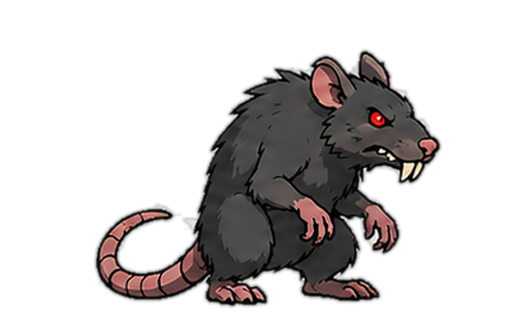
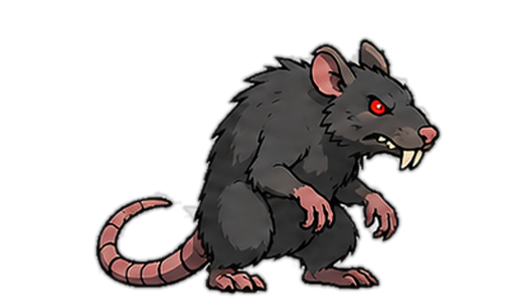
Rat idle: regenerated sheet passes -- breath 11.4% -> 4.8%, feet planted
New 3x4 sheet (1448x1086, 362x362 square cells) replacing the 2x6 one.
Measured against docs/STANCE_SHEET_SPEC.md Protocol A and B rather than
judged by eye, which is what every previous attempt this session got
wrong.

What actually improved, all measured on the delivered frames:

  breath rise f0->f11   11.4%  ->   4.8%   (directed ~4%; this was THE
                                           'gliding around' defect)
  redraw ratio            1.5  ->    0.9   (target <1.6)
  draw scale        0.92-1.07  ->  0.98-1.04 (all green)
  ground-line agreement    2px ->    1px across all 29 poses
  frames needing stray removal  9  ->  3

The two bands that still read as failing are both the tail, and the tail
is now MEANT to move -- this sheet was directed with a deliberate hip-
pivot sweep after the owner pointed out an idle is a standing loop, not a
statue. Separated the bottom band by side to prove it rather than
asserting it: tail side 26.1% churn, paw side 17.4%, and the planted-paw
centroid holds within 8.6px (2.3% of figure width) across all twelve
frames. So the feet are planted and consistently drawn; the 22% the QA
tool reports as 'feet' is the tail sweeping through the same band. Onion
skin agrees -- one readable rat with crisp feet, blur confined to head
and forepaws where the breath is.

That is exactly the redraw-ratio blind spot written into the prompt's
accept criteria last commit (a swaying tail and a flickering tail are
[…]

Changed region(s): [[0.1829, 0.1176, 0.8533, 0.9706]]

diff --git a/tools/slice_actor_sheet.py b/tools/slice_actor_sheet.py
@@ -308,90 +308,74 @@ ACTORS = {
                           "attack/f6", "attack/f7", "attack/f8", "attack/f9", "attack/f10", "attack/f11"],
             },
             {
-                # New 12-frame idle (2026-08-29), flat cel style, actual
-                # green (~hue-dominant, not a literal #00FF00 flood) rather
-                # than this creature's usual white-backed sheets -- "green"
-                # key mode (key_out_green) rather than "white_flood".
-                # Even 2x6 grid, cells cleanly gapped -- no bands needed.
+                # Regenerated 2026-08-30 under docs/STANCE_SHEET_SPEC.md --
+                # see Art/Enemies/rat/idle_regeneration_prompt.txt for the
+                # exact prompt and why each clause is in it. Replaces the
+                # 2026-08-29 sheet, which failed Protocol A #9 (figures wider
+                # than their own cells, so every tail was severed at a gutter)
+                # and Protocol B travel (11.4% against an 8% reject).
+                #
+                # 3x4 at 1448x1086 -> 362x362 SQUARE cells. The old sheet was
+                # 2x6 -> 286x458, and the rat's own content is 288 wide: it
+                # physically could not fit, which is why no amount of prompt
+                # wording kept it inside the cell. Square cells fix that by
+                # construction, and are the reason this sheet needs no
+                # drop_far_components_px entry -- with clean gutters there are
+                # no severed-tail strays to delete.
+                #
+                # Background came back near-white (247-255) with a faint baked
+                # checkerboard rather than real alpha, so "white_flood" like
+                # this creature's other sheets -- NOT the previous sheet's
+                # "green". The checkerboard spans ~7 levels, well inside the
+                # flood tolerance.
                 "file": "Giant_rat_idle_sheet_12_frame.png",
-                "key": "green",
-                "grid": (2, 6),
-                "scale": 1.208,  # measured via --suggest-scales rat (median
-                                 # sqrt-mass 189.5 vs the reference sheet's 228.9)
-                                 # -- this sheet is drawn SMALLER than the other two,
-                                 # so matching it means upscaling rather than the
-                                 # module docstring's usual "always shrink the
-                                 # larger sheet" (Giant_rat_sheet.png is fixed at
-                                 # 1.0 as every other rat stance's anchor; rescaling
-                                 # IT down would move cast/hurt/defeated/extra,
-                                 # which nobody asked to change). A mild 1.2x
-                                 # softens the upscaled sheet slightly -- acceptable
-                                 # for this flat cel style; revisit if idle reads
-                                 # noticeably softer than the rat's other stances.
-                # Row-major CELL order is [0..11] = 2 rows of 6, read left to
-                # right, top row then bottom. The grid's own left-to-right
-                # order is NOT used as playback order below -- see the
-                # "names" list comment.
-                "names": ["idle/f5", "idle/f6", "idle/f10", "idle/f8", "idle/f7", "idle/f9",
-                          "idle/f11", "idle/f1", "idle/f0", "idle/f2", "idle/f3", "idle/f4"],
-                "drop_far_components_px": 0,  # 7 of 12 cells carry a fully
-                                 # detached tail chunk bled in from a
-                                 # neighbouring cell -- up to 3363px, the
-                                 # single biggest defect on this creature,
-                                 # confirmed on an actual capture (a whole
-                                 # tail curl floating well clear of the
-                                 # rat's feet with nothing connecting it).
-                                 # Never caught before because every
-                                 # measurement taken so far (bbox centre,
-                                 # content height, the redraw ratio) is
-                                 # computed over the WHOLE piece including
-                                 # this fragment, so none of them could see
-                                 # it as anything other than a slightly
-                                 # bigger silhouette -- it takes actually
-                                 # looking at a frame, or per-component
-                                 # analysis like this, to notice a piece is
-                                 # missing a body part entirely. Same
-                                 # reasoning as the attack sheet's own entry:
-                                 # nothing separate is ever legitimate here.
+                "key": "white_flood",
+                "grid": (3, 4),
+                "scale": 1.126,  # measured via --suggest-scales rat (median
+                                 # sqrt-mass 203.2 vs the reference sheet's
+                                 # 228.9). Drawn closer to the reference than
+                                 # the previous sheet was (which needed 1.208),
+                                 # so it is being upscaled less and stays
+                                 # correspondingly sharper.
+                # Natural row-major order: this sheet is directed as a single
+                # monotonic rise (frame 1 exhaled/lowest -> frame 12 peak), so
+                # the cells already play in the right order. The previous
+                # entry carried a hand-shuffled list that sorted THAT sheet's
+                # frames by measured height to hide its non-monotonic drift;
+                # a correctly-directed sheet must not inherit that.
+                "names": ["idle/f0", "idle/f1", "idle/f2", "idle/f3",
+                          "idle/f4", "idle/f5", "idle/f6", "idle/f7",
+                          "idle/f8", "idle/f9", "idle/f10", "idle/f11"],
+                # Still needed, but for 2 cells rather than the old sheet's 9.
+                # This sheet's columns 1|2 and 2|3 have real empty gutters
+                # (15px and 10px); the 3|4 boundary has NONE -- its thinnest
+                # column still carries 46px of ink, so those two neighbours
+                # touch and the cut severs whatever crosses. f3 and f10 are
+                # the casualties. A genuinely clean sheet would not need this
+                # key at all; it is a mitigation for a Protocol A #9 failure
+                # that is now confined to one boundary instead of all five.
+                "drop_far_components_px": 0,
             },
         ],
         "aliases": {"guard": "extra"},
         "anchor": "ground_band",
         "delivery_scale": 1.0,
-        # Originally measured (2026-08-29) off the delivered idle bbox
-        # centres BEFORE drop_far_components_px existed, which swung 27.5px
-        # around their median and looked exactly like ground_band's anchor
-        # being unstable frame to frame -- it was nudged flat to 1.0px and
-        # reported fixed. It was not: the actual cause was the stray tail
-        # chunk above dragging each frame's tight-crop bbox sideways by a
-        # different amount depending on which side it landed on, while the
-        # REAL anchor (ground_band already measures off the largest
-        # component, stray excluded) had been stable the entire time. Once
-        # the stray was actually removed, the bbox-centre spread dropped to
-        # 6px with EVERY nudge at (0,0) -- these values are what's left
-        # after correcting that residual, not a fix for the drift this
-        # comment used to describe. Left as a cautionary note: a measurement
-        # that moves when you nudge it is not proof the nudge fixed the
-        # right thing, only that it changed the number being watched.
+        # Deliberately EMPTY for the regenerated idle (2026-08-30), and it
+        # should stay that way unless a fresh measurement says otherwise.
         #
-        # The SAME inconsistency also swings each frame's own content height
-        # ~10% (271-302px, cell order) -- a nudge cannot touch that (it's a
-        # reposition, not a resize), but WHICH cell plays at which f-index
-        # is free to choose, and playback follows f-index, not the sheet's
-        # own left-to-right layout. The "names" list above reassigns cells to
-        # f0..f11 in ascending measured-height order, so the loop breathes
-        # through one smooth rise (271->302px) instead of jumping around
-        # non-monotonically the way the sheet's own drawn order did --
-        # accepting one larger step at the wrap (302->271, once per loop)
-        # in exchange for eleven smaller ones instead of noise throughout.
-        # Nudge values below are keyed by f-index AFTER that reassignment
-        # (each cell keeps the same dx it measured under its old name).
-        "nudge": {
-            "idle/f0": (-1, 0), "idle/f1": (-2, 0), "idle/f2": (-3, 0),
-            "idle/f3": (-2, 0), "idle/f4": (1, 0), "idle/f5": (3, 0),
-            "idle/f6": (-1, 0), "idle/f7": (1, 0), "idle/f8": (0, 0),
-            "idle/f9": (3, 0), "idle/f10": (0, 0), "idle/f11": (1, 0),
-        },
+        # The previous sheet carried twelve per-frame dx values. They were
+        # measured off bbox centres that the severed-tail strays were
+        # dragging around, so they corrected an artefact rather than a real
+        # drift -- ground_band's actual anchor (largest component only) had
+        # been stable throughout. Carrying those numbers onto a different
+        # sheet would apply a correction derived from a defect this sheet
+        # does not have.
+        #
+        # Re-measure from zero if the delivered frames disagree; do not
+        # inherit. The lesson from the last round: a measurement that moves
+        # when you nudge it is not proof the nudge fixed the right thing,
+        # only that it changed the number being watched.
+        "nudge": {},
     },
 
     # --- Regenerated under docs/STANCE_SHEET_SPEC.md -----------------------
